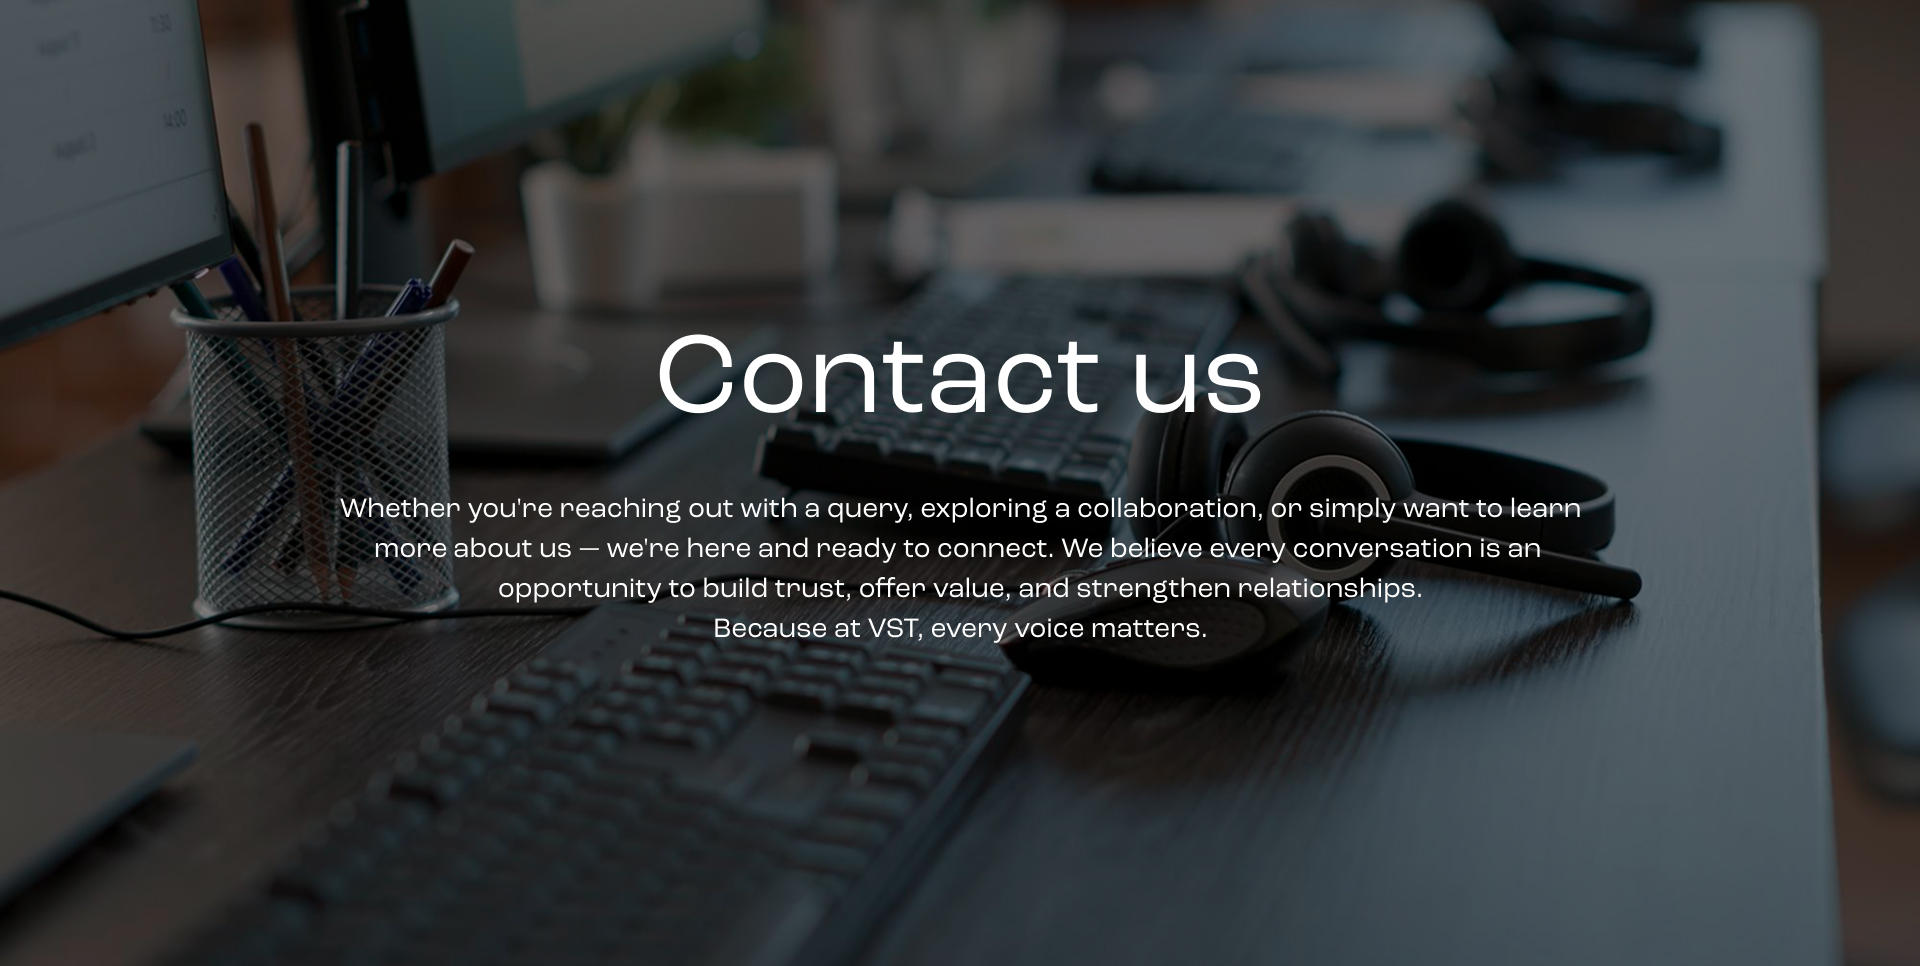
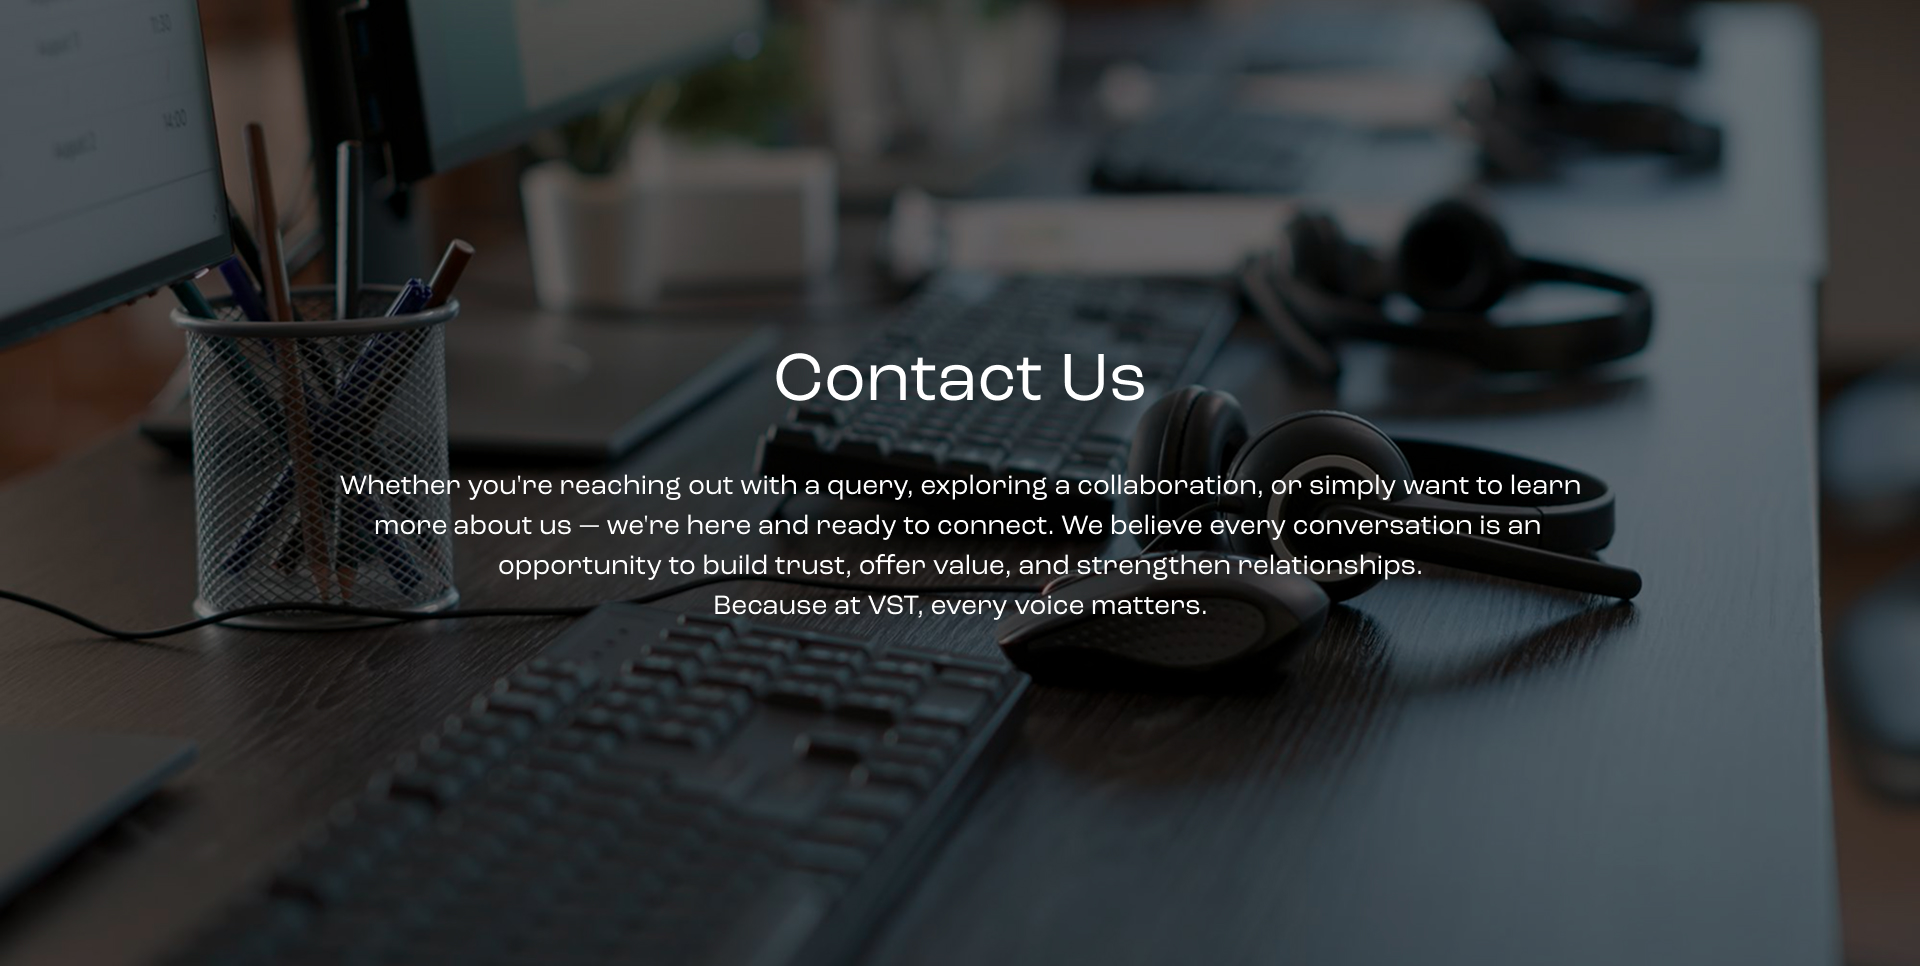
UPDATE: REPLACED THE CAREER PAGE BACKGROUND

Changed region(s): [[0.1562, 0.4969, 0.8438, 0.6832], [0.3438, 0.3416, 0.6562, 0.4348]]

diff --git a/src/app/career/page.tsx b/src/app/career/page.tsx
@@ -153,7 +153,7 @@ export default function Page() {
         : "text-gray-400";
 
   return (
-    <div className="min-h-screen bg-black text-white">
+    <div className="min-h-screen text-white">
       <Toaster
         position="top-right"
         toastOptions={{
@@ -173,59 +173,35 @@ export default function Page() {
         }}
       />
       {/* Hero Section with Background */}
-      <section className="relative h-[105vh] md:h-[100vh] xl:h-[105vh]">
+      <section className="relative h-[105vh] md:h-[60vh] xl:h-[135vh]">
         {/* Desktop Background Image */}
-        <div className="absolute inset-0 h-[110vh] md:h-[105vh] lg:h-[110vh] hidden lg:block">
+        <div className="">
           <Image
             src={frame1}
             alt="Background"
-            fill
-            className="object-fit"
-            priority
+            
+            
+            
           />
         </div>
 
         {/* Mobile Background Image */}
-        <div className="absolute inset-0 h-[70vh] md:h-[100vh] block lg:hidden">
-          <Image
-            src={frame3}
-            alt="Mobile Background"
-            fill
-            className="object-fill"
-            priority
-          />
-        </div>
+        
 
         {/* Hero Content */}
-        <div className="relative z-10 container mx-auto px-4 sm:px-8 md:px-12 lg:px-10 xl:px-16 h-full flex flex-col justify-center">
-          <h1 className="font-roc font-normal text-[45px] sm:text-[60px] md:text-[75px] lg:text-[85px] xl:text-[90px] text-[#646464] pb-5 md:pb-10 md:mt-48 lg:-mt-14 xl:-mt-32 text-center md:text-left">
-          Careers
-          </h1>
-          <p className="max-w-[550px] font-normal text-[15px] sm:text-[18px] md:text-[20px] lg:text-[21px] leading-6 lg:leading-8 font-roc tracking-tight lg:text-justify">
-            The VST Group offers rewarding career opportunities across a range
-            of disciplines and verticals.
-            <p>
-              The Group is an equal opportunity workplace where results are
-              encouraged and merit is rewarded, making it an ideal choice for a{" "}
-              <span className="text-[#FDB813] font-normal tracking-[1px] ml-1">
-                long-term career path
-              </span>
-              .
-            </p>
-          </p>
-        </div>
+        
       </section>
 
       {/* Form Section - Improved for consistent overlap across all screen sizes */}
       <section className="relative z-20 -mt-36 sm:-mt-36 md:mt-0 lg:-mt-24 xl:-mt-40 bg-transparent pb-10 md:pb-20">
         <div className="px-4 lg:px-6 xl:px-11 2xl:px-14">
           {/* Form Container */}
-          <div className="bg-[#3B3B3B] rounded-xl sm:rounded-2xl md:rounded-3xl mx-2 sm:mx-5 md:mx-8 lg:mx-10 py-8 sm:py-12 md:py-16 lg:py-20 px-4 sm:px-8 md:px-12 lg:px-28">
+          <div className="bg-[#DCDCDC] rounded-xl sm:rounded-2xl md:rounded-3xl mx-2 sm:mx-5 md:mx-8 lg:mx-10 py-8 sm:py-12 md:py-16 lg:py-20 px-4 sm:px-8 md:px-12 lg:px-28">
             <form className="space-y-4 md:space-y-6" onSubmit={handleSubmit}>
               <div className="grid grid-cols-1 md:grid-cols-1 gap-4 md:gap-6 lg:gap-8">
                 {/* Personal Details Section - Preserved styling */}
                 <div>
-                  <label className="block text-[16px] md:text-[18px] lg:text-[20px] font-roc mb-1 md:mb-2 opacity-80 font-normal font-roc">
+                  <label className="block text-black text-[16px] md:text-[18px] lg:text-[20px] font-roc mb-1 md:mb-2 opacity-80 font-normal font-roc">
                     Name
                   </label>
                   <input
@@ -234,11 +210,11 @@ export default function Page() {
                     onChange={handleChange}
                     name="name"
                     required
-                    className="w-full bg-[#666666] rounded p-2 md:p-2.5 focus:outline-none font-normal font-roc"
+                    className="w-full bg-[#E8E8E8] rounded p-2 md:p-2.5 focus:outline-none font-normal font-roc"
                   />
                 </div>
                 <div>
-                  <label className="block text-[16px] md:text-[18px] lg:text-[20px] font-normal font-roc mb-1 md:mb-2 opacity-80">
+                  <label className="block text-black text-[16px] md:text-[18px] lg:text-[20px] font-normal font-roc mb-1 md:mb-2 opacity-80">
                     Mobile number
                   </label>
                   <input
@@ -247,11 +223,11 @@ export default function Page() {
                     onChange={handleChange}
                     name="mobile"
                     required
-                    className="w-full bg-[#666666] rounded p-2 md:p-2.5 focus:outline-none"
+                    className="w-full bg-[#E8E8E8] rounded p-2 md:p-2.5 focus:outline-none"
                   />
                 </div>
                 <div>
-                  <label className="block text-[16px] md:text-[18px] lg:text-[20px] font-normal font-roc mb-1 md:mb-2 opacity-80 ">
+                  <label className="block text-black text-[16px] md:text-[18px] lg:text-[20px] font-normal font-roc mb-1 md:mb-2 opacity-80 ">
                     Email
                   </label>
                   <input
@@ -260,14 +236,14 @@ export default function Page() {
                     onChange={handleChange}
                     name="email"
                     required
-                    className="w-full bg-[#666666] rounded p-2 md:p-2.5 focus:outline-none"
+                    className="w-full bg-[#E8E8E8] rounded p-2 md:p-2.5 focus:outline-none"
                   />
                 </div>
 
                 {/* About Yourself Section - NEW */}
                 <div>
                   <div className="mb-2">
-                    <label className="block text-[16px] md:text-[18px] lg:text-[20px] font-normal font-roc opacity-80">
+                    <label className="block text-black text-[16px] md:text-[18px] lg:text-[20px] font-normal font-roc opacity-80">
                       Tell us the role and vertical you're applying for, and why
                       you're interested in it?
                     </label>
@@ -275,7 +251,7 @@ export default function Page() {
                   <div className="relative">
                     {/* Char count always at top right inside the box */}
                     <span
-                      className={`absolute top-2 right-3 text-xs font-semibold text-white ${wordCountColor}`}
+                      className={`absolute top-2 right-3 text-xs font-semibold text-black ${wordCountColor}`}
                     >
                       {remainingWords} words 
                     </span>
@@ -285,7 +261,7 @@ export default function Page() {
                       name="aboutYourself"
                       required
                       rows={4}
-                      className="w-full bg-[#666666] rounded-xl p-4 focus:outline-none resize-none shadow-md transition-all duration-200"
+                      className="w-full bg-[#E8E8E8] rounded-xl p-4 focus:outline-none resize-none shadow-md transition-all duration-200"
                     />
                     <div className="w-full h-1 mt-2 rounded-full overflow-hidden">
                       <div
@@ -310,11 +286,11 @@ export default function Page() {
 
               {/* Upload Resume Section - Enhanced with responsive sizing */}
               <div className="mt-6 md:mt-8">
-                <label className="block text-[16px] md:text-[18px] lg:text-[20px] font-normal font-roc mb-1 md:mb-2 opacity-80">
+                <label className="block text-black text-[16px] md:text-[18px] lg:text-[20px] font-normal font-roc mb-1 md:mb-2 opacity-80">
                   Upload resume
                 </label>
                 <div
-                  className={`bg-[#666666] rounded-lg p-8 sm:p-10 md:p-12 lg:p-16 text-center cursor-pointer relative transition-all duration-300 ${selectedFile ? "border-2 border-[#FDB813]" : ""}`}
+                  className={`bg-[#E8E8E8] rounded-lg p-8 sm:p-10 md:p-12 lg:p-16 text-center cursor-pointer relative transition-all duration-300 ${selectedFile ? "border-2 border-[#FDB813]" : ""}`}
                 >
                   <div className="flex flex-col items-center justify-center h-full relative">
                     <input
@@ -335,7 +311,7 @@ export default function Page() {
                           className="object-contain pointer-events-none sm:w-[45px] sm:h-[45px] md:w-[50px] md:h-[50px]"
                           priority
                         />
-                        <p className="mt-2 text-sm md:text-base text-white opacity-70 font-normal font-roc">
+                        <p className="mt-2 text-sm md:text-base text-black opacity-70 font-normal font-roc">
                           Click to upload your resume
                         </p>
                       </>
@@ -346,7 +322,7 @@ export default function Page() {
                             {getFileIcon(selectedFile.name || "")}
                           </span>
                           <div className="text-left overflow-hidden flex-1">
-                            <p className="text-white font-medium truncate">
+                            <p className="text-black font-medium truncate">
                               {selectedFile.name}
                             </p>
                             <p className="text-xs text-gray-300">
@@ -365,7 +341,7 @@ export default function Page() {
                             ✕
                           </button>
                         </div>
-                        <p className="mt-3 text-sm text-[#FDB813] font-normal font-roc">
+                        <p className="mt-3 text-sm text-black font-normal font-roc">
                           Click again to change file
                         </p>
                       </div>
@@ -377,7 +353,7 @@ export default function Page() {
                     {fileError}
                   </p>
                 ) : (
-                  <p className="text-xs sm:text-sm text-[#FDB813] font-normal font-roc mt-1 md:mt-2">
+                  <p className="text-xs sm:text-sm text-black font-normal font-roc mt-1 md:mt-2">
                     File types accepted: TXT, PDF or Word Doc
                   </p>
                 )}
@@ -388,9 +364,9 @@ export default function Page() {
                 <button
                   type="submit"
                   disabled={isSubmitting}
-                  className="w-full sm:w-2/3 md:w-1/2 lg:w-1/3 bg-[#FDB813] text-black py-2 md:py-3 rounded-lg hover:bg-[#FDB813]/90 transition-colors font-normal font-roc"
+                  className="w-full sm:w-2/3 md:w-1/2 lg:w-1/3 bg-[black] text-white py-2 md:py-3 rounded-lg hover:bg-[#FDB813]/90 transition-colors font-normal font-roc"
                 >
-                  {isSubmitting ? "Sending..." : "Send Message"}
+                  {isSubmitting ? "Sending..." : "Send"}
                 </button>
               </div>
             </form>
